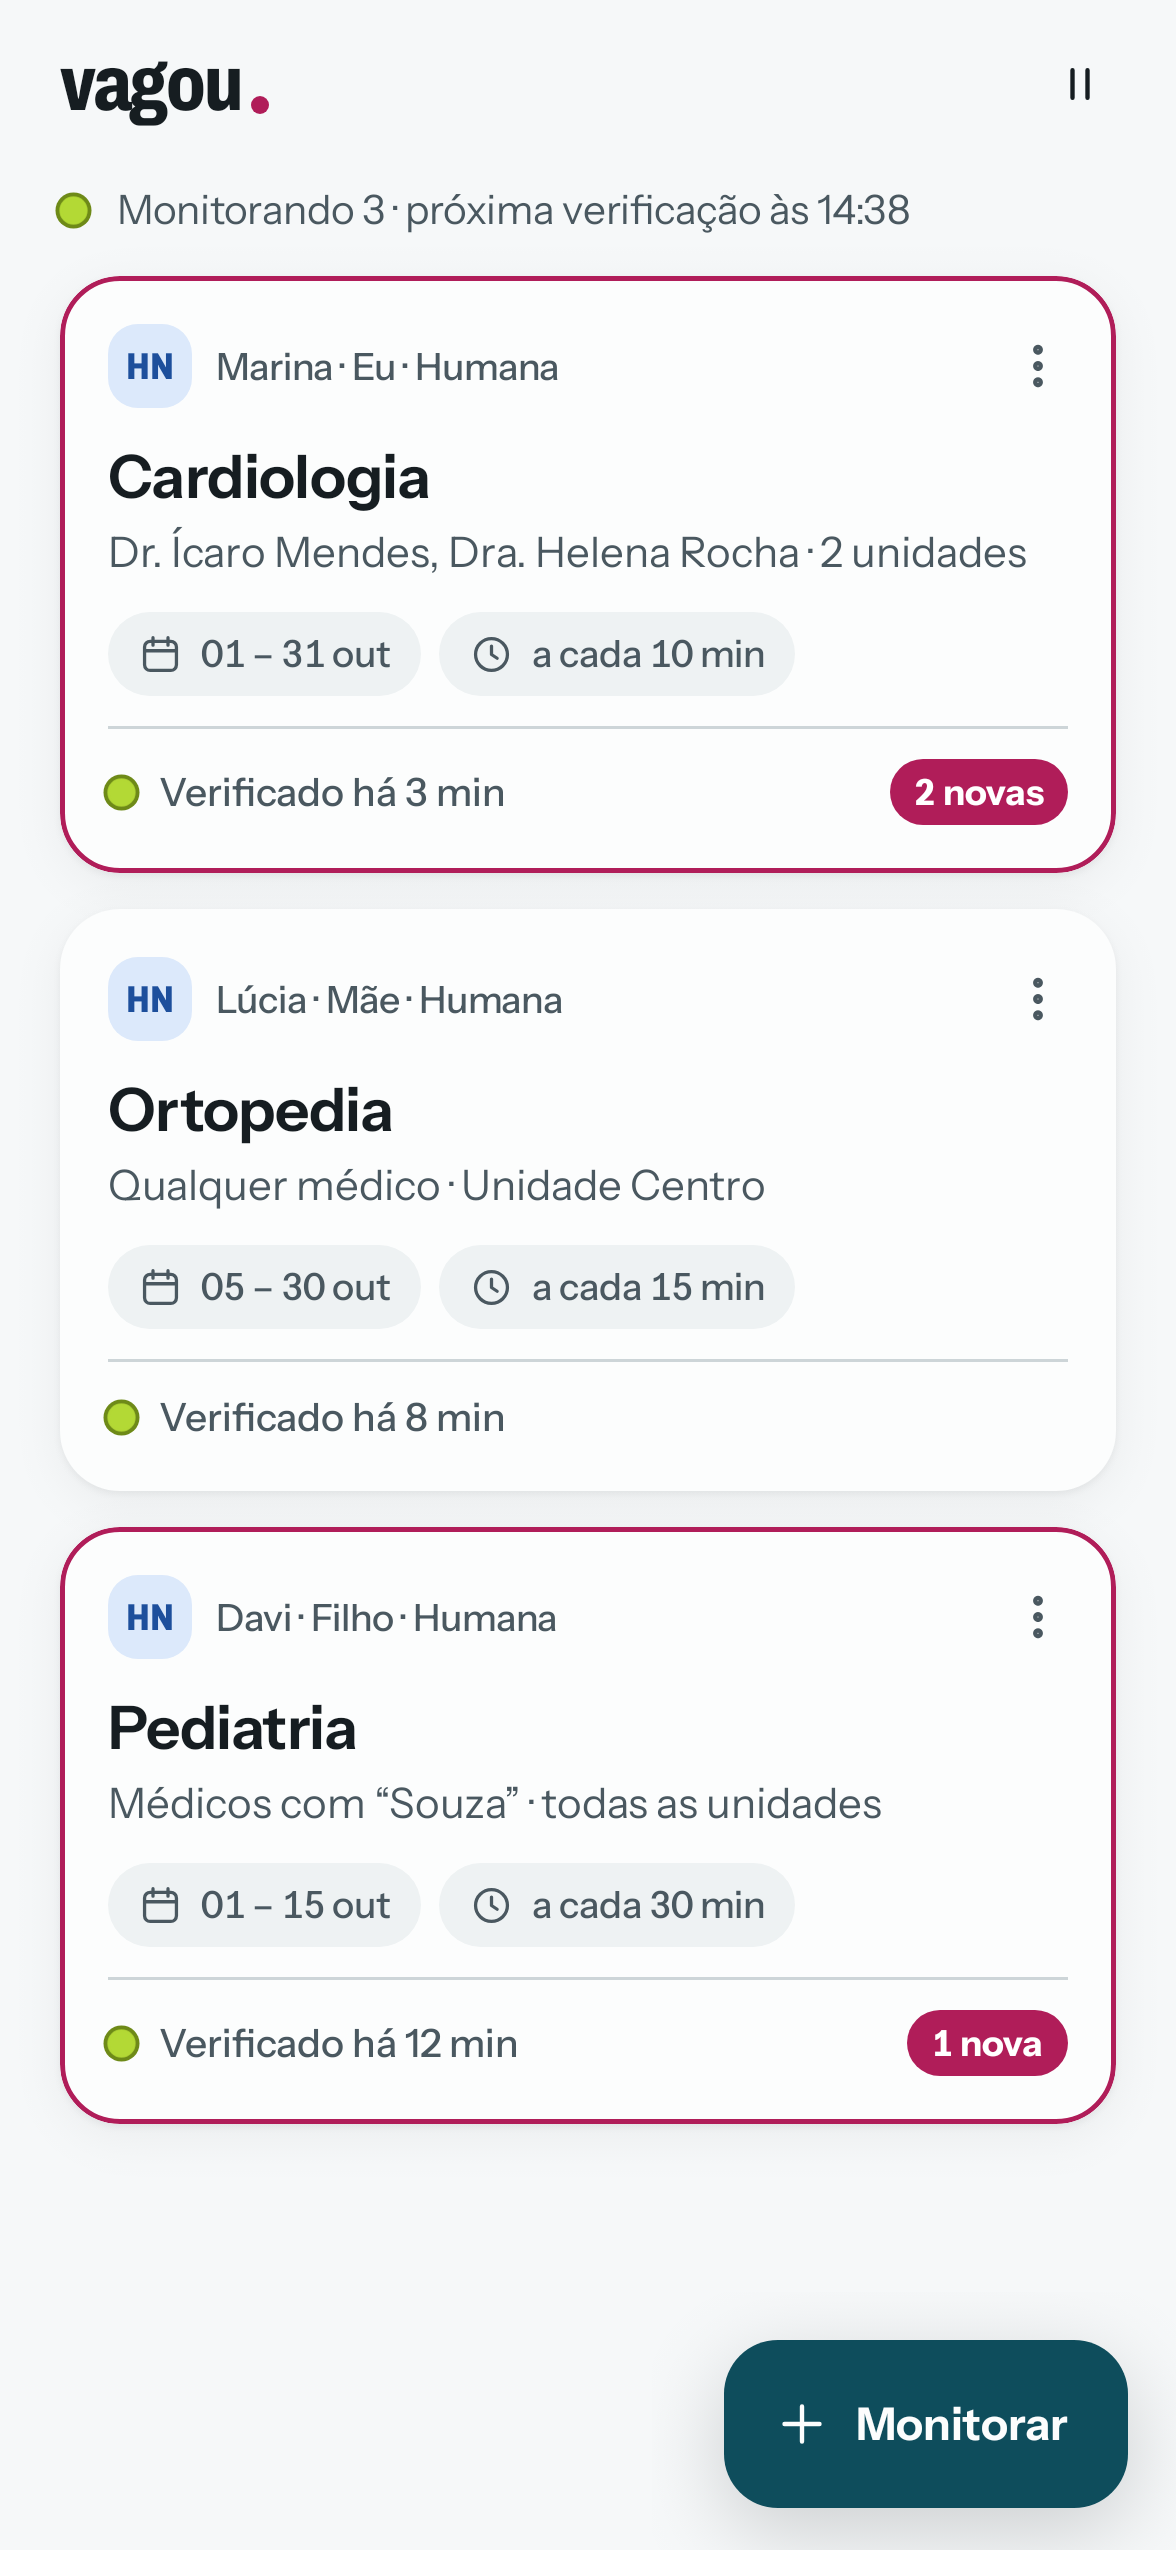
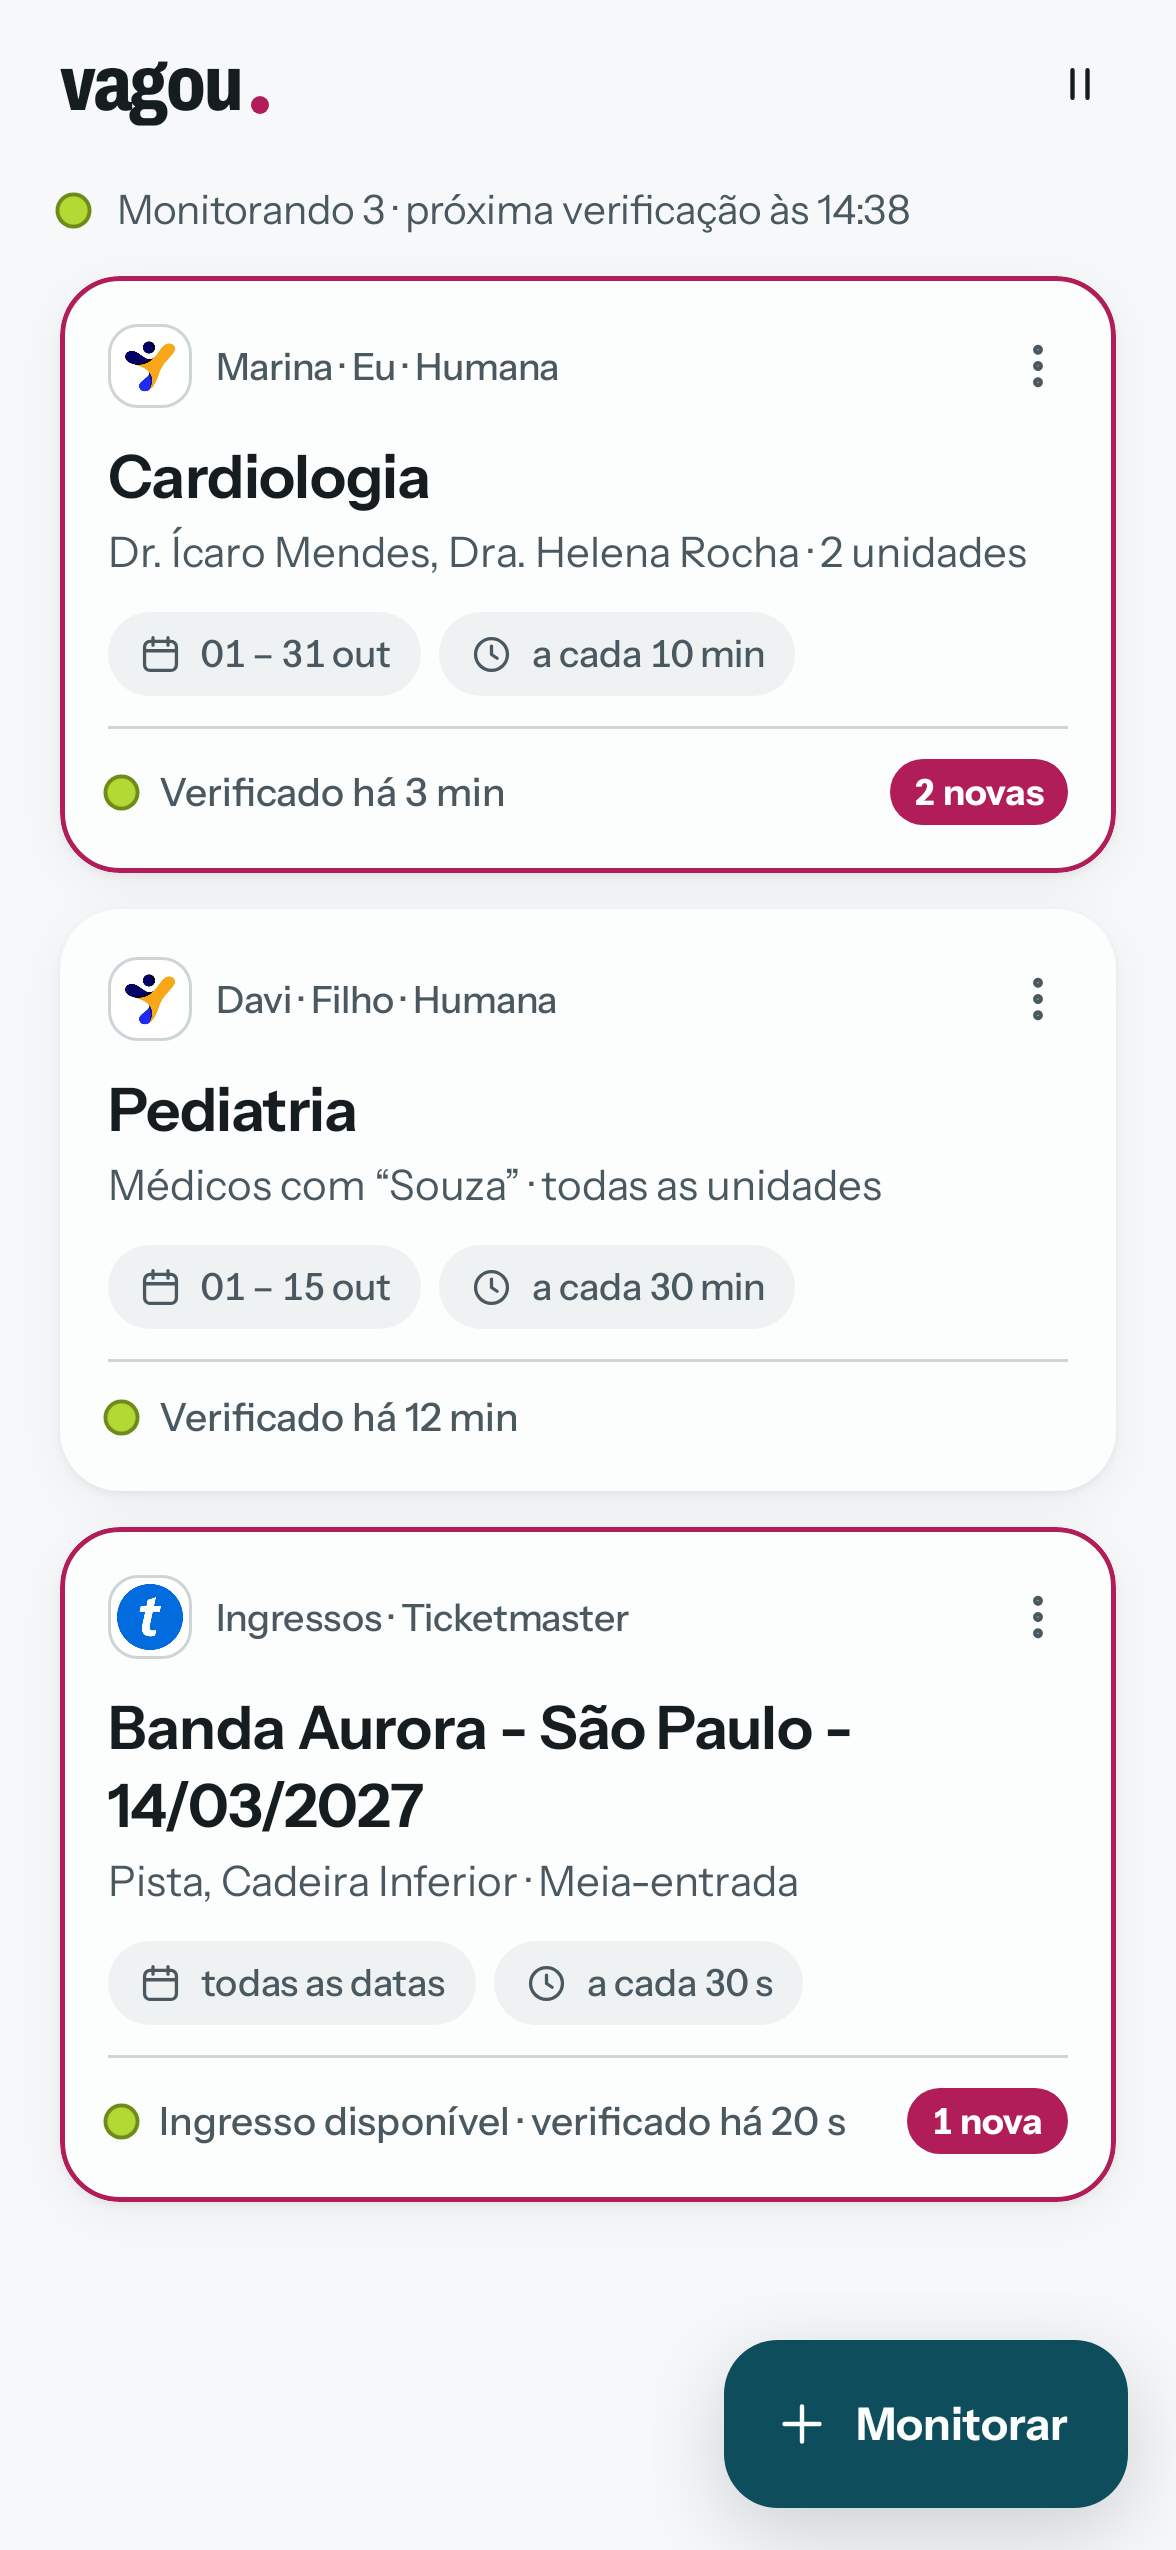
docs: Portuguese changelog and new screenshots
The changelog is now in Portuguese, past versions included, and the screenshots
show an overview of both health-plan and ticket watches.

diff --git a/CHANGELOG.md b/CHANGELOG.md
@@ -1,9 +1,24 @@
 # Changelog
 
-All notable changes to Vagou are documented in this file.
+Todas as mudanças relevantes do Vagou ficam registradas aqui.
 
-The format is based on [Keep a Changelog](https://keepachangelog.com/en/1.1.0/),
-and this project adheres to [Semantic Versioning](https://semver.org/spec/v2.0.0.html).
+O formato segue o [Keep a Changelog](https://keepachangelog.com/pt-BR/1.1.0/),
+e o projeto segue o [Versionamento Semântico](https://semver.org/lang/pt-BR/).
+
+## [0.6.0] - 2026-10-10
+
+### Adicionado
+- Conexões mostra dois quadros, Planos de saúde e Ingressos. Cada um abre sua própria lista: cada plano disponível com as contas conectadas e um botão "Conectar uma conta", e a Ticketmaster com os eventos monitorados.
+- "Monitorar" abre os mesmos quadros para você escolher o que vigiar, e a tela inicial vazia começa do mesmo jeito. Sem plano conectado, Planos de saúde leva primeiro a conectar um.
+- Monitoramentos de ingressos e a conexão da Ticketmaster mostram o logo da Ticketmaster.
+
+### Alterado
+- Uma conta que precisa de atenção mostra um aviso no quadro Planos de saúde, e a notificação dela abre direto a lista de planos.
+- O plano de demonstração com dados fictícios foi removido.
+
+### Corrigido
+- Os monitoramentos de ingressos voltaram a funcionar. A Ticketmaster desativou o endereço de onde o Vagou lia os eventos, e toda verificação falhava com "A Ticketmaster pediu uma pausa".
+- Quando a Ticketmaster bloqueia a conexão (comum em VPNs), o monitoramento diz "A Ticketmaster bloqueou a consulta" em vez de pedir uma pausa.
 
 ## [0.6.0] - 2026-10-10
 
@@ -22,68 +37,68 @@ and this project adheres to [Semantic Versioning](https://semver.org/spec/v2.0.0
 
 ## [0.5.0] - 2026-10-07
 
-### Added
-- Ticket watches for Ticketmaster Brasil, no account needed: paste an event link or share it to Vagou, pick dates, sectors and ticket kinds (Inteira, Meia-entrada, PCD, Idoso), and Vagou rings, repeating until you look, when a matching ticket becomes available or when sales open. Tapping the alert opens the event's sale page.
-- Event pages that group several cities or dates let you pick which sale to watch.
-- Ticket watches check every 15 seconds to 5 minutes while a persistent "Vagou está de olho nos ingressos" notification is shown; its "Pausar" button stops them.
+### Adicionado
+- Monitoramento de ingressos da Ticketmaster Brasil, sem conta: cole o link do evento ou compartilhe com o Vagou, escolha datas, setores e tipos de ingresso (Inteira, Meia-entrada, PCD, Idoso), e o Vagou toca um alarme, repetindo até você ver, quando um ingresso que serve fica disponível ou quando a venda abre. Tocar no aviso abre a página de venda do evento.
+- Páginas de evento que reúnem várias cidades ou datas deixam você escolher qual venda monitorar.
+- Os monitoramentos de ingressos verificam de 15 segundos a 5 minutos enquanto a notificação fixa "Vagou está de olho nos ingressos" aparece; o botão "Pausar" dela interrompe.
 
-### Changed
-- The Contas tab is now Conexões and lists your health plans and Ticketmaster.
-- The Terms of Use and Privacy Policy now cover ticket watching, so you'll be asked to accept them again.
+### Alterado
+- A aba Contas agora se chama Conexões e lista seus planos de saúde e a Ticketmaster.
+- Os Termos de Uso e a Política de Privacidade agora cobrem o monitoramento de ingressos, por isso você vai aceitá-los de novo.
 
 ## [0.4.0] - 2026-09-25
 
-### Changed
-- Found slots now come with a reminder to confirm the times in the Humana app before booking.
+### Alterado
+- As vagas encontradas agora vêm com um lembrete para confirmar os horários no app da Humana antes de agendar.
 
 ## [0.3.0] - 2026-09-24
 
-### Added
-- "Todas as unidades": a doctor-name watch can now search every unit of the specialty, like the official app's name search, instead of only the units you picked. The editor shows where a matching doctor works.
-- A watch can combine doctors you picked with a doctor name: you get slots from the picked doctors and from anyone whose name matches.
+### Adicionado
+- "Todas as unidades": um monitoramento por nome de médico agora pode buscar em todas as unidades da especialidade, como a busca por nome do app oficial, em vez de só nas unidades escolhidas. O editor mostra onde atende o médico encontrado.
+- Um monitoramento pode combinar médicos escolhidos com um nome de médico: você recebe vagas dos médicos escolhidos e de qualquer um cujo nome combine.
 
-### Changed
-- Changing the units of a watch keeps the typed doctor name and the picked doctors that still work there.
+### Alterado
+- Mudar as unidades de um monitoramento mantém o nome de médico digitado e os médicos escolhidos que ainda atendem lá.
 
-### Fixed
-- Watches by doctor name or for any doctor now see a doctor who just opened an online agenda at the next check, instead of up to 24 hours later.
+### Corrigido
+- Monitoramentos por nome de médico ou por qualquer médico agora enxergam um médico que acabou de abrir agenda online na próxima verificação, em vez de até 24 horas depois.
 
 ## [0.2.0] - 2026-09-24
 
-### Added
-- A silent persistent notification shows how many watches are running and when the next check is. Its "Desativar" button turns it off until you switch it back on in Ajustes > Notificação fixa.
+### Adicionado
+- Uma notificação fixa e silenciosa mostra quantos monitoramentos estão rodando e quando é a próxima verificação. O botão "Desativar" dela a desliga até você reativar em Ajustes > Notificação fixa.
 
-### Fixed
-- Specialties such as Cardiologia no longer fail to list doctors when some of their units have no doctor with an online agenda; those units just show none.
-- When a unit's doctor list can't be loaded, the other units still show, and you can still watch any doctor by name.
-- A check over several units no longer fails as a whole when one unit answers in an unexpected format; that unit is skipped and the others are checked.
+### Corrigido
+- Especialidades como Cardiologia não falham mais ao listar médicos quando algumas unidades não têm médico com agenda online; essas unidades só aparecem vazias.
+- Quando a lista de médicos de uma unidade não carrega, as outras unidades continuam aparecendo, e você ainda pode monitorar qualquer médico pelo nome.
+- Uma verificação em várias unidades não falha mais por inteiro quando uma unidade responde num formato inesperado; essa unidade é pulada e as outras são verificadas.
 
 ## [0.1.0] - 2026-09-24
 
-First pilot build. Vagou watches your health plan's agenda from your phone and notifies you when a slot opens with the doctor you want. Everything stays on the phone: no server, no account, no telemetry.
+Primeira versão do piloto. O Vagou vigia a agenda do seu plano de saúde pelo celular e avisa quando abre uma vaga com o médico que você quer. Tudo fica no celular: sem servidor, sem cadastro, sem telemetria.
 
-### Added
-- Humana Saúde Nordeste support: connect with your beneficiary portal login, see the plans and patients (holder and dependents) found on the account, and pick specialties, units and doctors from the portal's own lists.
-- Watches: choose the plan, patient, specialty and one or more units, then any doctor, specific doctors, or any doctor whose name contains what you type. Limit them by dates, weekdays and time of day, and set how often to check: as often as every 10 minutes, with a higher minimum for watches that cover many doctors.
-- Background checks that keep running with the app closed, and a notification as soon as a new slot appears, with a shortcut to the plan's official app to book it.
-- Alerts when an account needs you (wrong password, locked account, new terms to accept on the portal): its checks pause until you resume them, and Vagou never accepts anything for you.
-- Notices when the plan portal is down or checks are running late.
-- Watch details with the open slots found, grouped by day and by doctor, each doctor in its own color, with a doctor filter. Taken and past slots drop off the list.
-- Activity history of what was checked and found.
-- Accounts screen with your plan cards (carteirinhas).
-- Demo provider ("Demonstração") with fake data, to try every screen without a plan login.
-- Settings: light theme by default (dark or follow the system), discreet notifications that only say "Nova vaga encontrada", lock-screen details on or off, pause everything, a diagnostics report without personal data, and "Apagar tudo" to erase everything Vagou stored on the phone.
-- Terms of Use and Privacy Policy to accept on first launch, readable any time from Settings.
+### Adicionado
+- Suporte à Humana Saúde Nordeste: conecte com o login do portal do beneficiário, veja os planos e pacientes (titular e dependentes) da conta, e escolha especialidades, unidades e médicos nas listas do próprio portal.
+- Monitoramentos: escolha o plano, o paciente, a especialidade e uma ou mais unidades, e então qualquer médico, médicos específicos ou qualquer médico cujo nome contenha o que você digitar. Limite por datas, dias da semana e horário, e defina a frequência: a cada 10 minutos no mínimo, com um mínimo maior para monitoramentos que cobrem muitos médicos.
+- Verificações em segundo plano que continuam com o app fechado, e uma notificação assim que surge uma vaga nova, com atalho para o app oficial do plano para agendar.
+- Avisos quando uma conta precisa de você (senha errada, conta bloqueada, novos termos para aceitar no portal): as verificações dela pausam até você retomar, e o Vagou nunca aceita nada por você.
+- Avisos quando o portal do plano está fora do ar ou as verificações estão atrasadas.
+- Detalhes do monitoramento com as vagas encontradas, agrupadas por dia e por médico, cada médico com sua cor, e filtro por médico. Vagas ocupadas ou passadas saem da lista.
+- Histórico de atividade do que foi verificado e encontrado.
+- Tela de contas com as carteirinhas dos seus planos.
+- Plano de demonstração ("Demonstração") com dados fictícios, para experimentar todas as telas sem login de plano.
+- Ajustes: tema claro por padrão (escuro ou seguir o sistema), notificações discretas que só dizem "Nova vaga encontrada", detalhes na tela de bloqueio ligados ou desligados, pausar tudo, relatório de diagnóstico sem dados pessoais, e "Apagar tudo" para apagar tudo o que o Vagou guardou no celular.
+- Termos de Uso e Política de Privacidade para aceitar na primeira abertura, que podem ser lidos a qualquer momento em Ajustes.
 
-### Fixed
-- Humana login no longer stops at the plan step, blocked by the portal's Cloudflare protection.
-- Links to the Privacy Policy inside the Terms of Use now open the policy.
-- On accounts with more than one plan, checks for a plan now run in that plan's portal session. Before, they could run in the last plan selected and find nothing, or the wrong slots.
-- A slot that drops out of one check and comes back is no longer shown as taken, and editing what a watch searches for starts its results fresh instead of marking the old ones as taken.
-- "Verificar agora" says when the next manual check unlocks instead of doing nothing.
+### Corrigido
+- O login da Humana não para mais na etapa do plano, bloqueado pela proteção Cloudflare do portal.
+- Os links para a Política de Privacidade dentro dos Termos de Uso agora abrem a política.
+- Em contas com mais de um plano, as verificações de um plano agora rodam na sessão do portal desse plano. Antes, podiam rodar no último plano selecionado e não achar nada, ou achar as vagas erradas.
+- Uma vaga que some numa verificação e volta não aparece mais como ocupada, e editar o que um monitoramento busca recomeça os resultados em vez de marcar os antigos como ocupados.
+- "Verificar agora" diz quando a próxima verificação manual libera em vez de não fazer nada.
 
-### Security
-- Passwords, sessions and all app data are encrypted with a key kept in the Android Keystore, and are left out of backups and device transfers.
-- Vagou talks only to the plan portal's own addresses, over HTTPS, trusting only the system's certificates. No analytics, crash reporting or ads.
-- The login screen can't be captured in screenshots or the recent-apps preview.
+### Segurança
+- Senhas, sessões e todos os dados do app são criptografados com uma chave guardada no Android Keystore, e ficam fora dos backups e das transferências entre aparelhos.
+- O Vagou só conversa com os endereços do próprio portal do plano, por HTTPS, confiando apenas nos certificados do sistema. Sem analytics, relatório de falhas ou anúncios.
+- A tela de login não aparece em capturas de tela nem na prévia de apps recentes.
 

diff --git a/README.md b/README.md
@@ -4,13 +4,13 @@ O Vagou avisa no seu celular quando abre um horário com o médico que você que
 ingressos para o show que você quer na Ticketmaster.
 
 <p align="center">
-  <img src="screenshots/01-inicio.png" width="240" alt="Tela inicial com três monitoramentos ativos">
-  <img src="screenshots/02-vaga-encontrada.png" width="240" alt="Vaga encontrada, com horário, médico e unidade">
-  <img src="screenshots/03-vagas-por-dia.png" width="240" alt="Vagas encontradas agrupadas por dia e por médico">
+  <img src="screenshots/01-inicio.png" width="240" alt="Tela inicial com monitoramentos de consultas e de ingressos">
+  <img src="screenshots/02-monitorar.png" width="240" alt="Escolha do que monitorar: planos de saúde ou ingressos">
+  <img src="screenshots/03-vaga-encontrada.png" width="240" alt="Vaga encontrada, com horário, médico e unidade">
 </p>
 <p align="center">
-  <img src="screenshots/04-novo-monitoramento.png" width="240" alt="Criando um monitoramento: especialidade, unidade, médico, datas e frequência">
-  <img src="screenshots/05-atividade.png" width="240" alt="Histórico das vagas encontradas">
+  <img src="screenshots/04-novo-ingresso.png" width="240" alt="Monitorando ingressos: datas, setores, tipo de ingresso e frequência">
+  <img src="screenshots/05-ingresso-encontrado.png" width="240" alt="Ingresso disponível e avisos enviados">
   <img src="screenshots/06-ajustes.png" width="240" alt="Ajustes de verificações, notificações e privacidade">
 </p>
 
